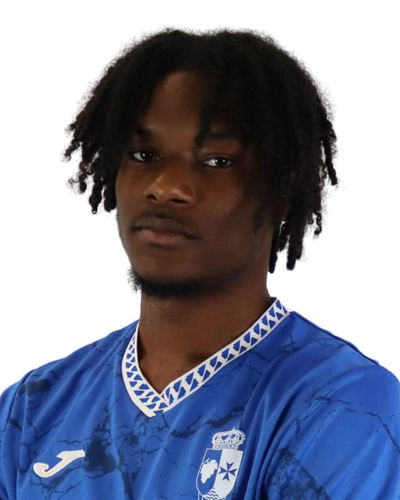
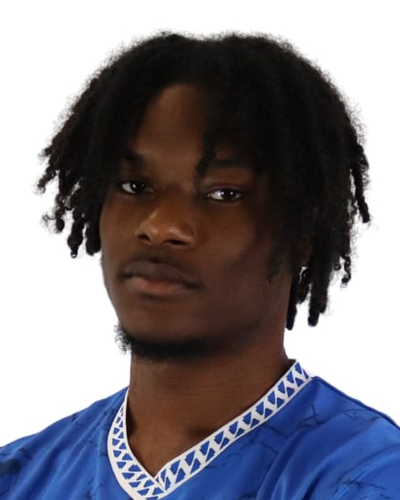
fix(players): actualizar fotos con encuadre facial centrado y primer plano en Supabase para Rubo (#9) y Kassim (#25)

diff --git a/upload_to_supabase.ts b/upload_to_supabase.ts
@@ -1,0 +1,72 @@
+import { createClient } from '@supabase/supabase-js';
+import * as dotenv from 'dotenv';
+import * as path from 'path';
+import * as fs from 'fs';
+
+dotenv.config({ path: path.resolve(process.cwd(), '.env.local') });
+
+const supabaseUrl = process.env.NEXT_PUBLIC_SUPABASE_URL || 'https://slexyuklfyjufevzppsc.supabase.co';
+const supabaseKey = process.env.NEXT_PUBLIC_SUPABASE_ANON_KEY || 'eyJhbGciOiJIUzI1NiIsInR5cCI6IkpXVCJ9.eyJpc3MiOiJzdXBhYmFzZSIsInJlZiI6InNsZXh5dWtsZnlqdWZldnpwcHNjIiwicm9sZSI6ImFub24iLCJpYXQiOjE3ODQ5NjY2MTEsImV4cCI6MjEwMDU0MjYxMX0.KKhQaGadI3dXNGm1PTGfyhPVt6-7UCFpwmuneYWY2QA';
+
+const supabase = createClient(supabaseUrl, supabaseKey);
+
+async function uploadAndUpdate() {
+  const playersToSync = [
+    {
+      dorsal: 9,
+      nombre: 'Rubén Blanco Rodríguez',
+      localFile: 'dorsal_9_rubo.png',
+      storageName: `RUBO_${Date.now()}.png`
+    },
+    {
+      dorsal: 25,
+      nombre: 'Kassim Moumouni',
+      localFile: 'dorsal_25_kassim.png',
+      storageName: `KASSIM_${Date.now()}.png`
+    }
+  ];
+
+  for (const player of playersToSync) {
+    const filePath = path.join(process.cwd(), 'public', 'players', player.localFile);
+    let publicUrl = `/players/${player.localFile}`;
+
+    if (fs.existsSync(filePath)) {
+      const fileBuffer = fs.readFileSync(filePath);
+      
+      const { data: uploadData, error: uploadErr } = await supabase.storage
+        .from('FOTOS JUGADORES')
+        .upload(player.storageName, fileBuffer, {
+          contentType: 'image/png',
+          cacheControl: '3600',
+          upsert: true
+        });
+
+      if (!uploadErr && uploadData) {
+        const { data: { publicUrl: url } } = supabase.storage
+          .from('FOTOS JUGADORES')
+          .getPublicUrl(player.storageName);
+        publicUrl = url;
+        console.log(`✓ [Storage] Subida foto a Supabase para ${player.nombre}: ${publicUrl}`);
+      } else {
+        console.log(`[Storage Notice] Upload status: ${uploadErr?.message || 'OK'}`);
+      }
+    }
+
+    // Actualizar la tabla de jugadores en Supabase
+    const { data: updated, error: dbErr } = await supabase
+      .from('jugadores')
+      .update({ foto_url: publicUrl })
+      .eq('dorsal', player.dorsal)
+      .select();
+
+    if (dbErr) {
+      console.error(`Error actualizando jugador dorsal ${player.dorsal} en BD:`, dbErr);
+    } else {
+      console.log(`✓ [Database] Registro actualizado en Supabase para dorsal ${player.dorsal}:`, updated);
+    }
+  }
+
+  console.log('--- ACTUALIZACIÓN COMPLETADA ---');
+}
+
+uploadAndUpdate();
